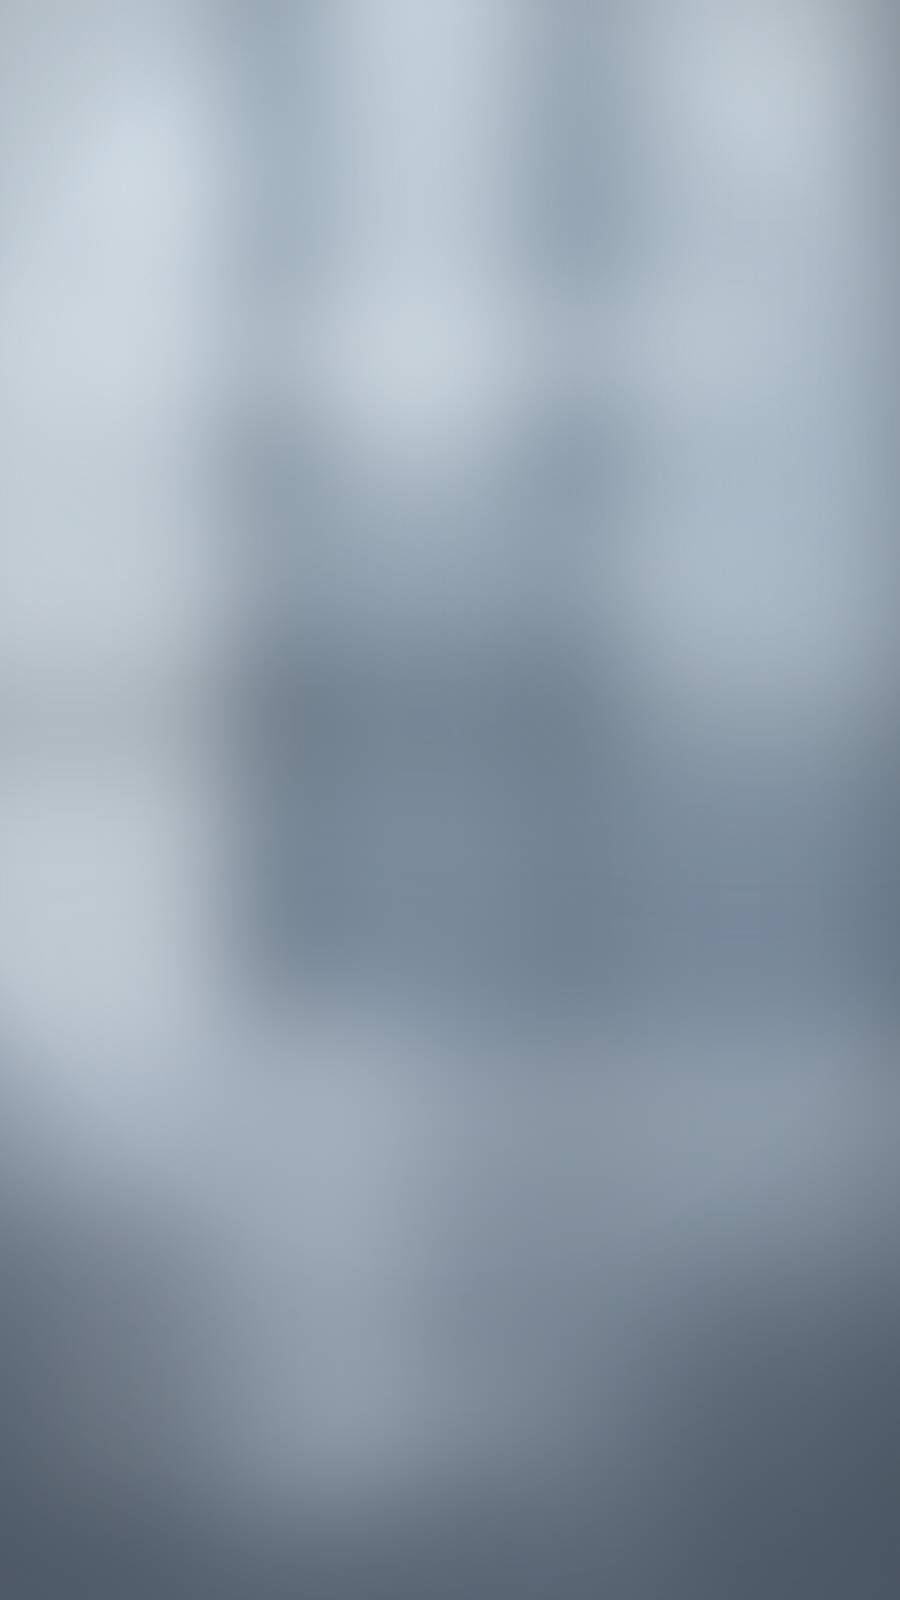
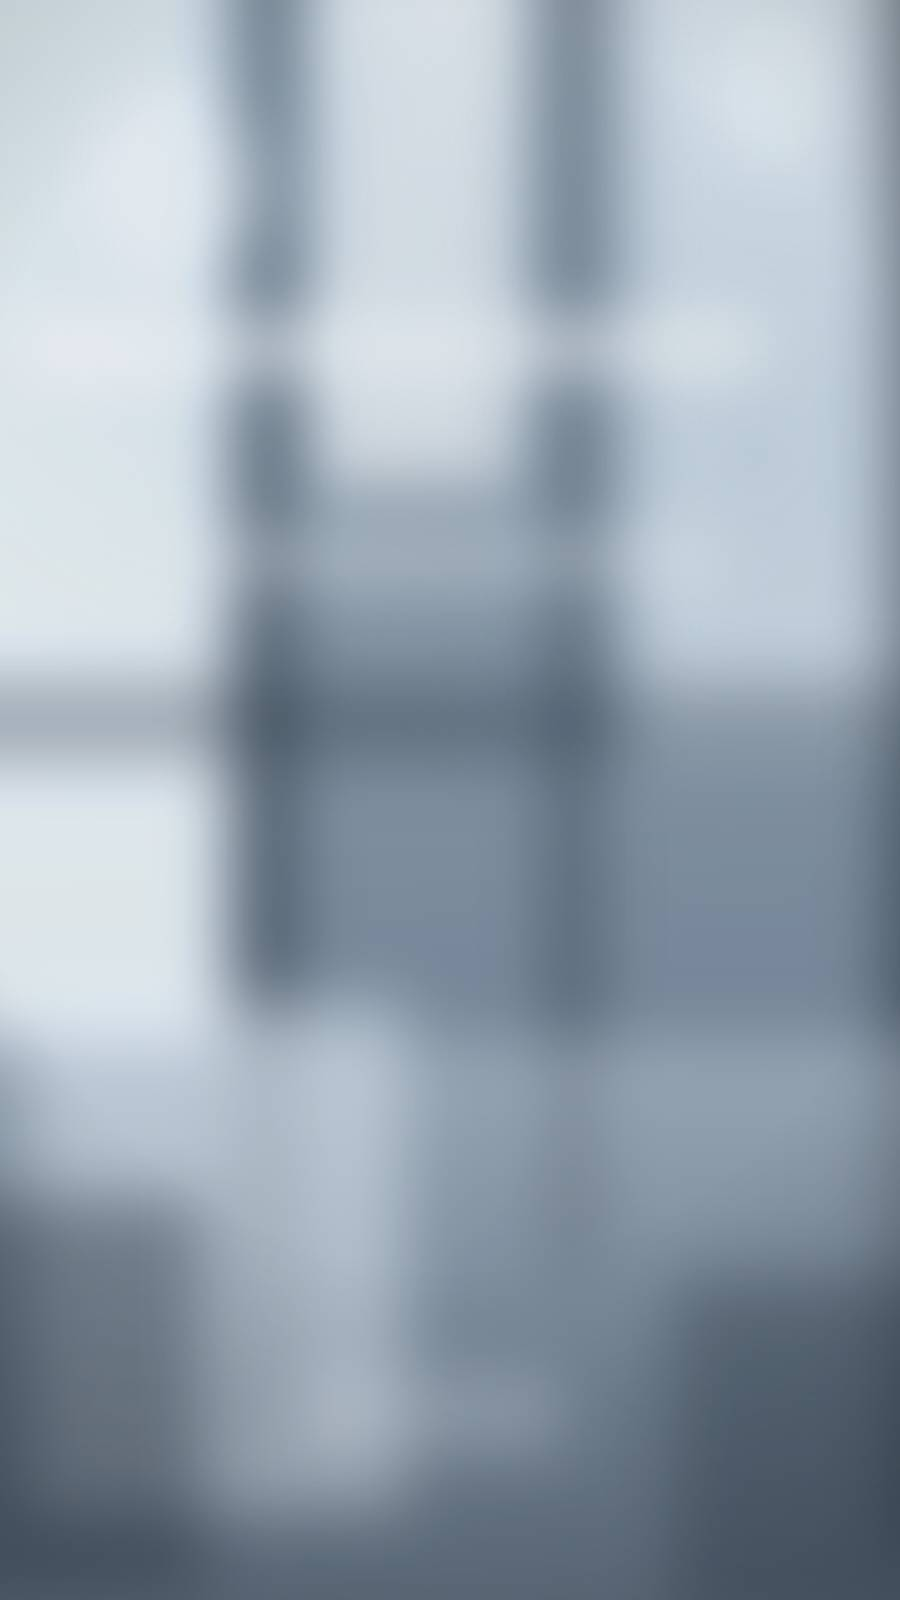
背景画像のぼかしを弱めコントラストを上げて視認性を向上
- ぼかしを56px→32pxに弱め、構造が読み取れるように
- 採光面を明るく、柱や梁の影を濃くしてコントラストを強調
- 上に重ねる暗幕を薄くし、背景が前に出るよう調整

Claude-Session: https://claude.ai/code/session_01JAzPKFC9V9vYXsi93CJbXM

diff --git a/index.html b/index.html
@@ -86,9 +86,9 @@
     z-index: -1;
     background-image:
       linear-gradient(180deg,
-        rgba(20, 25, 31, 0.52) 0%,
-        rgba(20, 25, 31, 0.38) 42%,
-        rgba(14, 18, 23, 0.58) 100%),
+        rgba(20, 25, 31, 0.34) 0%,
+        rgba(20, 25, 31, 0.18) 42%,
+        rgba(14, 18, 23, 0.40) 100%),
       url("bg.jpg");
     background-size: cover, cover;
     background-position: center center, center center;

diff --git a/README.md b/README.md
@@ -86,7 +86,7 @@ https://5gr2pb25dj-jpg.github.io/N/
 
 モバイルゲーム「アークナイツ」のUIを参考にした構成。ぼかした施設内観風の背景（`bg.jpg`）の上に明るい半透明パネルが浮かぶレイアウト、彩度を抑えた配色に青（`#29a1e0`）のアクセント、小さな英字ラベル（`sku` `uptime▶` `output▶`）の併記、左に見出しブロックを置く行レイアウトを採用しています。状態は塗りタグ、糸は系統色（表=青／中=橙／裏=緑）で識別します。
 
-背景画像はCSSの図形とぼかしから生成したオリジナル画像で、外部素材や外部CDNには依存していません（約19KB）。
+背景画像はCSSの図形とぼかしから生成したオリジナル画像で、外部素材や外部CDNには依存していません（約26KB）。
 
 ## 今後の拡張候補
 
